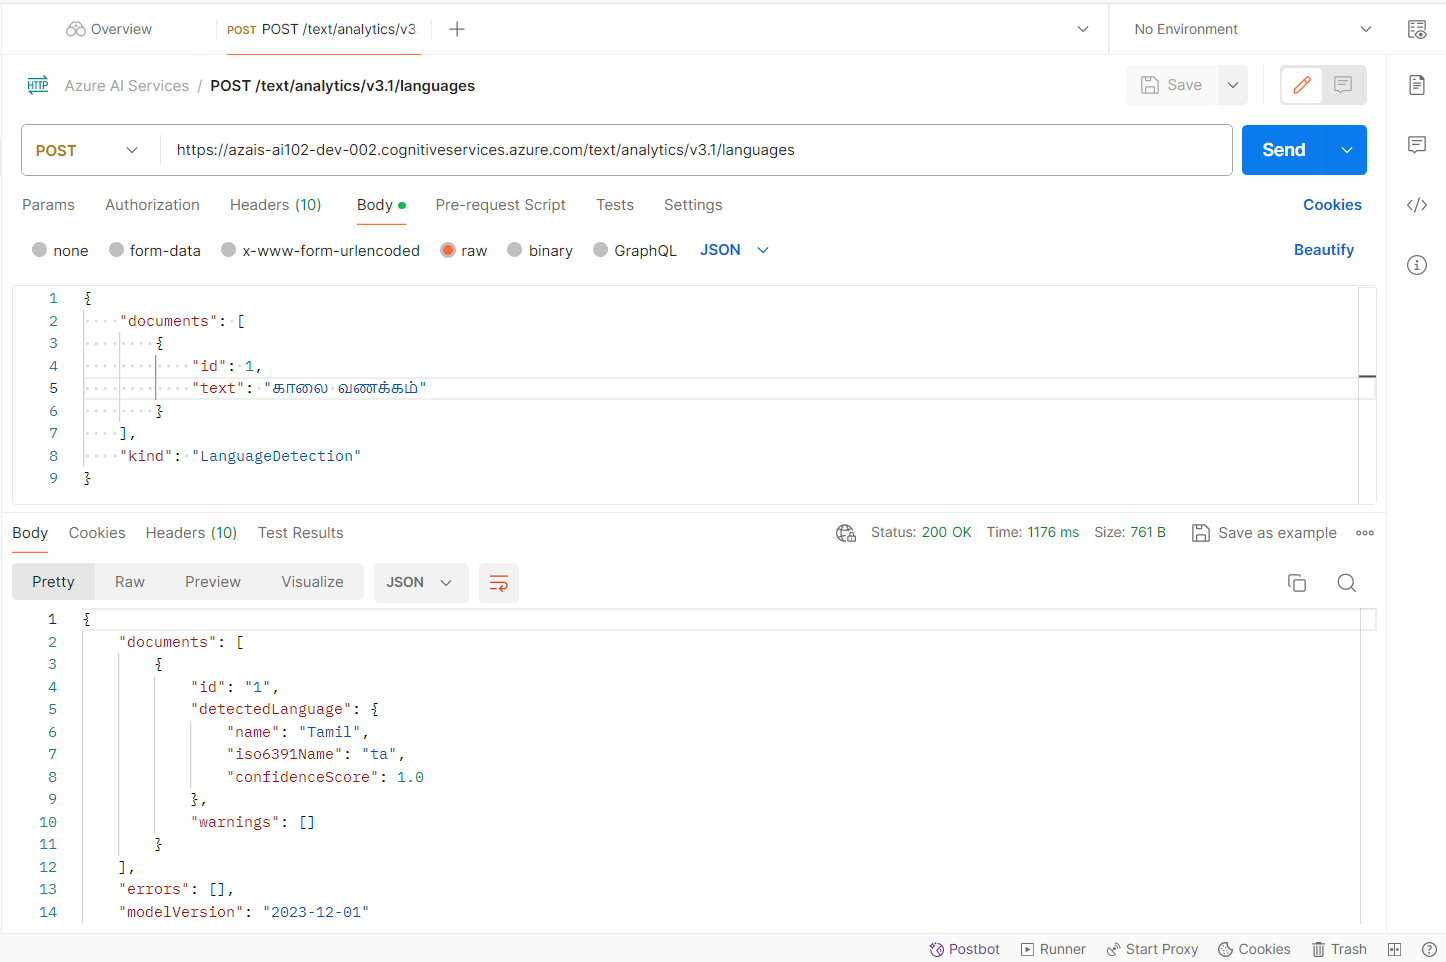
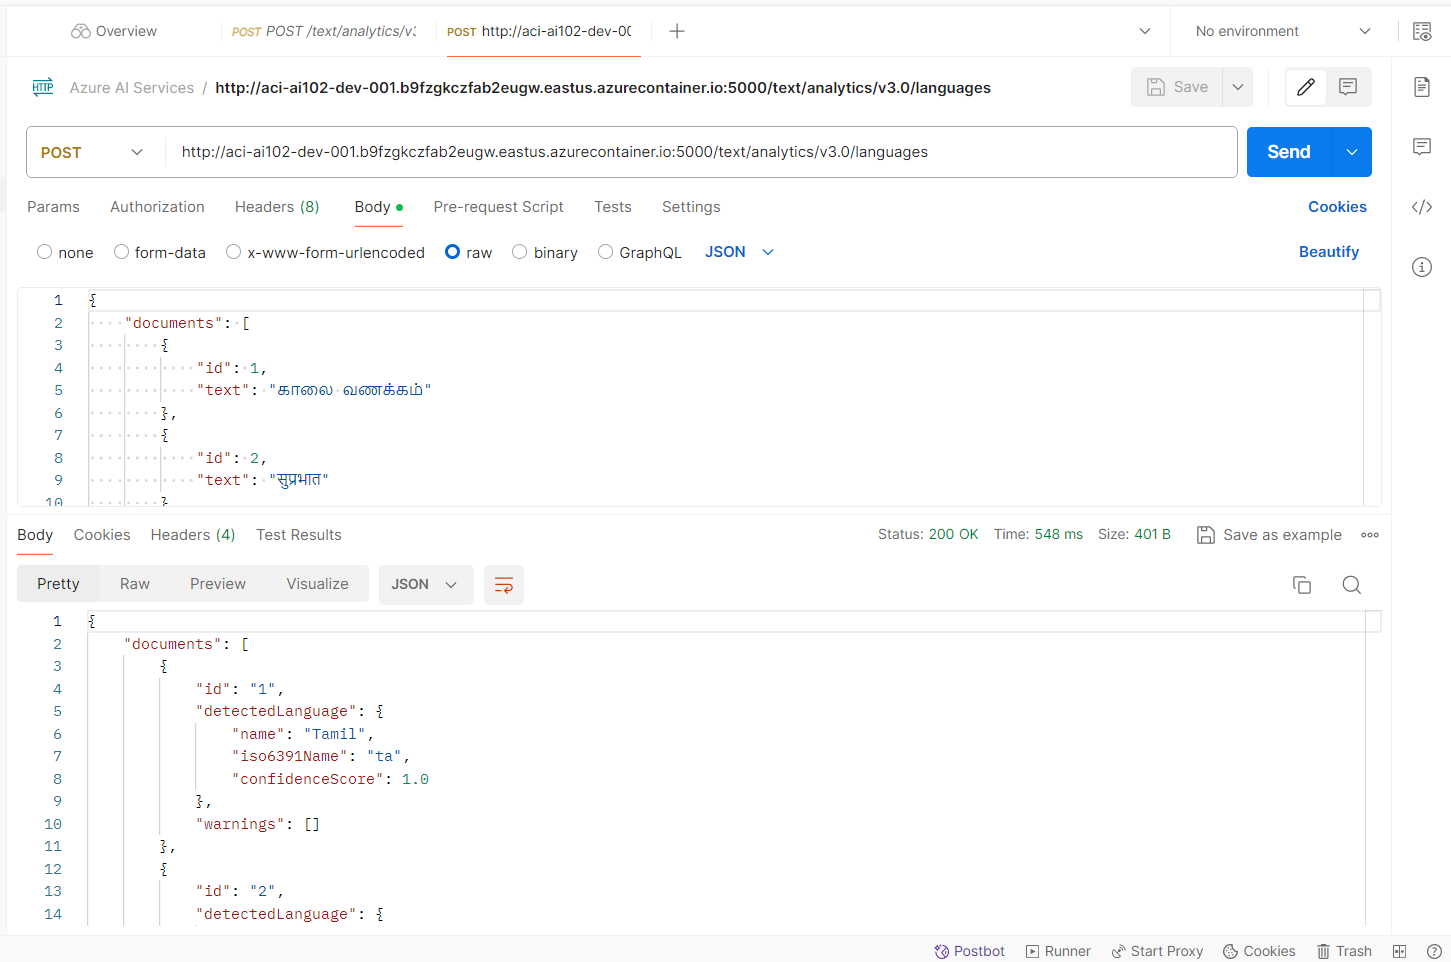
Changes

diff --git a/0326_MSFT_Reactor_AI102_S3/README.md b/0326_MSFT_Reactor_AI102_S3/README.md
@@ -74,12 +74,82 @@
 ## 2. Deploy Azure AI services in containers
 
 > 1. Discussion and Demo
+> 1. <https://learn.microsoft.com/en-gb/training/modules/investigate-container-for-use-with-ai-services/1-introduction>
 > 1. <https://microsoftlearning.github.io/mslearn-ai-services/Instructions/Exercises/04-use-a-container.html>
+> 1. <https://learn.microsoft.com/en-us/azure/ai-services/cognitive-services-container-support>
+> 1. <https://learn.microsoft.com/en-us/azure/ai-services/language-service/overview#deploy-on-premises-using-docker-containers>
+> 1. <https://learn.microsoft.com/en-us/azure/ai-services/language-service/language-detection/how-to/use-containers>
+
+### Local Docker
+
+> 1. Discussion and Demo
+
+### Provision an Azure AI Services resource
+
+> 1. Discussion and Demo
+
+### Retrieving AI Services Keys
+
+> 1. Discussion and Demo
+
+```powershell
+$rgname="rg-ai102-dev-001"
+$aaisvs="azais-ai102-dev-002"
+
+az cognitiveservices account keys list --name $aaisvs --resource-group $rgname
+
+az cognitiveservices account keys regenerate --name $aaisvs --resource-group $rgname --key-name key1
+```
+
+### Deploy and run a Text Analytics container on Local Docker
+
+> 1. Discussion and Demo
+
+#### Pull in docker image
+
+```powershell
+docker pull mcr.microsoft.com/azure-cognitive-services/textanalytics/language:latest
+```
+
+#### Running the docker image
+
+```powershell
+docker run --rm -it -p 5000:5000 --memory 4g --cpus 1 \
+mcr.microsoft.com/azure-cognitive-services/textanalytics/language \
+Eula=accept \
+Billing="https://YourEndPoint.cognitiveservices.azure.com/" \
+ApiKey="YourAPIKey"
+```
+
+### Deploy and run a Text Analytics container on Azure Container Instance
+
+> 1. Discussion and Demo
+
+![Azure Container Instance | 100x100](./Documentation/Images/AzureContainerInstance.PNG)
+
+### Verify using `CURL`
+
+> 1. Discussion and Demo
+
+```powershell
+curl -X POST "http://aci-ai102-dev-001.b9fzgkczfab2eugw.eastus.azurecontainer.io:5000/text/analytics/v3.0/languages" -H "Content-Type: application/json" --data-ascii "{'documents':[{'id':1,'text':'Hello world.'},{'id':2,'text':'Salut tout le monde.'}]}"
+```
+
+![Text Analysis using CURL | 100x100](./Documentation/Images/AAIServices_TextAnalysis_Curl.PNG)
+
+### Verify using `Postman`
+
+> 1. Discussion and Demo
+
+![Text Analysis using Postman | 100x100](./Documentation/Images/AAIServices_TextAnalysis_Postman.PNG)
 
 ## 3. Classify and moderate text with Azure Content Moderator
 
 > 1. Discussion and Demo
-> 1. <https://microsoftlearning.github.io/mslearn-ai-services/Instructions/Exercises/03-monitor-ai-services.html>
+> 1. <https://learn.microsoft.com/en-gb/training/modules/classify-and-moderate-text-with-azure-content-moderator/>
+> 1. <https://learn.microsoft.com/en-gb/training/modules/classify-and-moderate-text-with-azure-content-moderator/4-exercise-use-the-api-console>
+
+![Content Moderation | 100x100](./Documentation/Images/AAIServices_ContentModeration.PNG)
 
 ---
 
